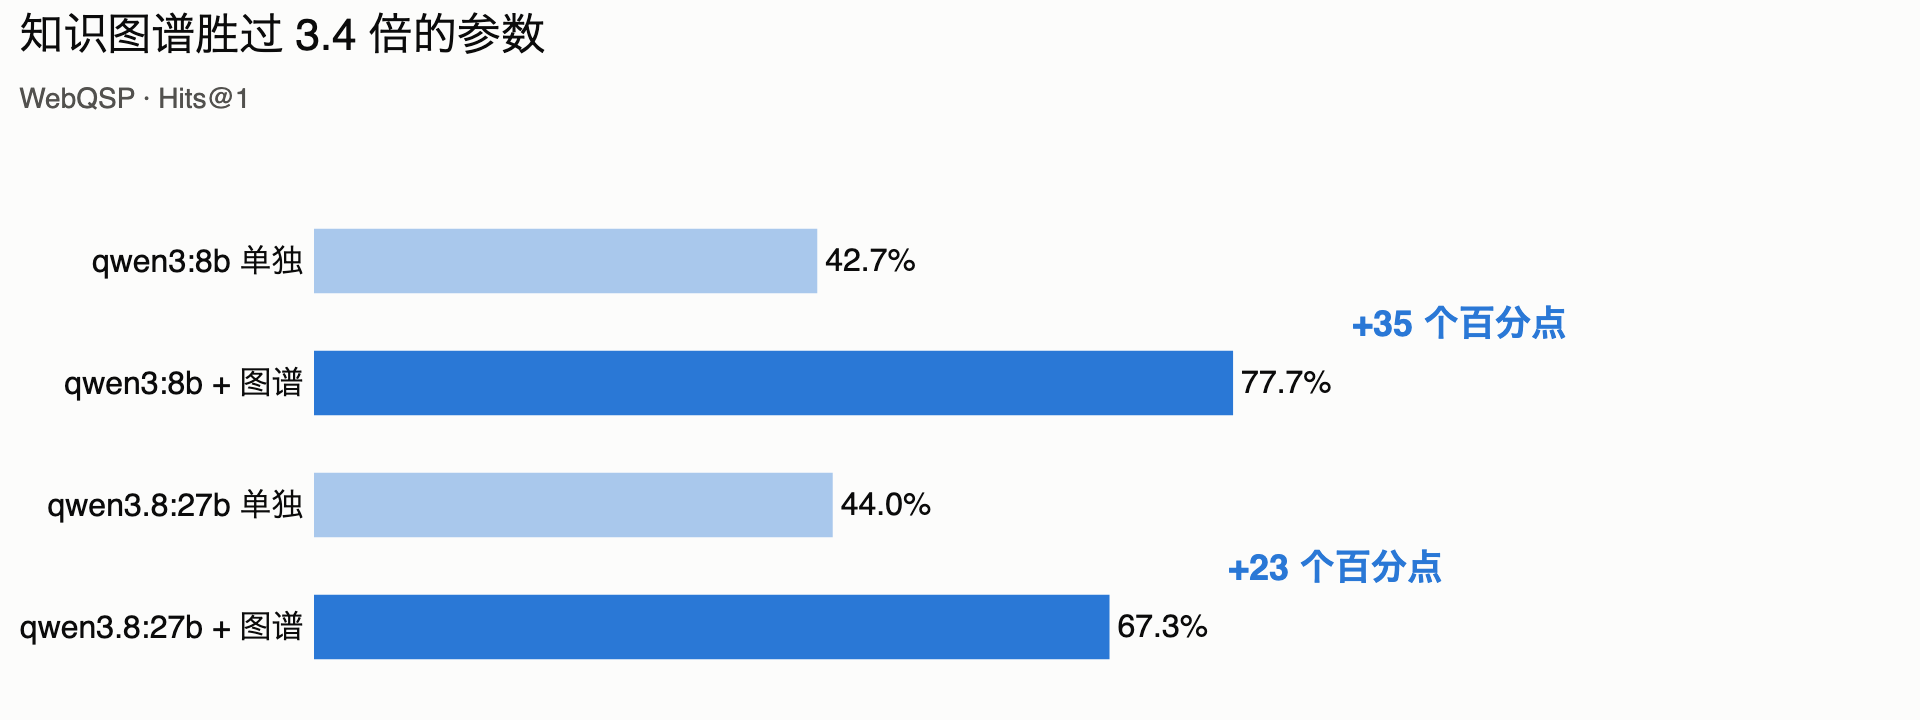
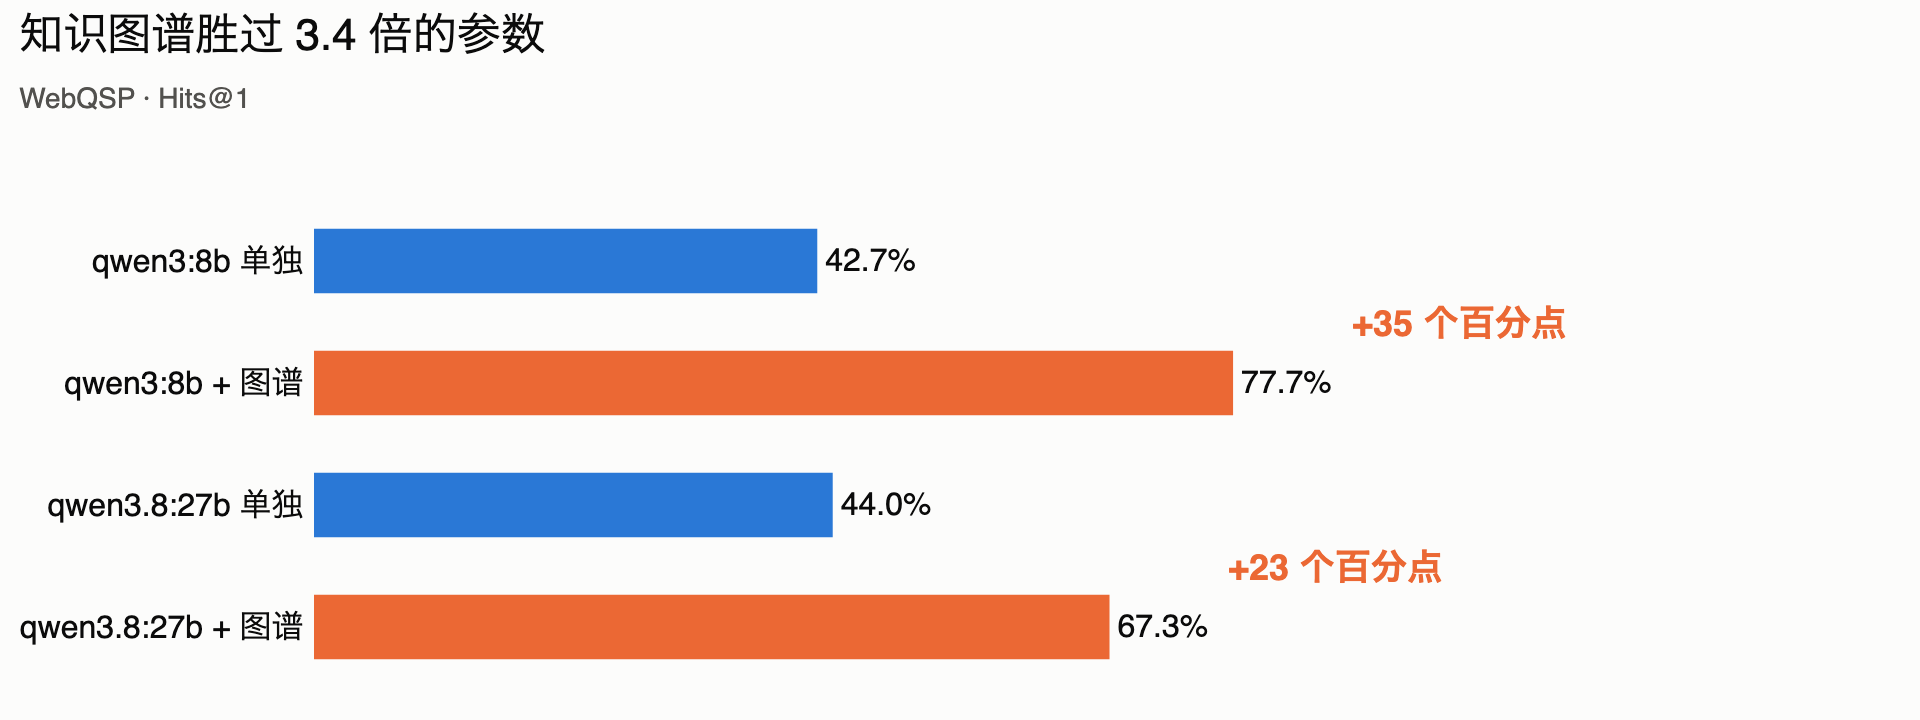
benchmarks: 精度の図を青とオレンジに。同系色では差が見えなかった
グラフありを濃い青、なしを淡い青にしていたが、明度差だけだと「同じものの
多い少ない」に見えて、どちらがどちらか棒を測らないと分からなかった。

  青      グラフなし
  オレンジ  グラフあり（常に長い方）

差の注記もオレンジに揃えた。この2色は既に検証済みのペアで、この背景で
CVD ΔE 24.7（protan）、通常視 33.6、どちらも背景比3:1以上。

この図はこの2色を「条件」に使っている（他の図では指標や系列に使っている）。
指標が1つしかない図なので色相が空いており、比較したい軸に割り当てられる。
3言語すべて再生成した。

diff --git a/benchmarks/accuracy_chart.py b/benchmarks/accuracy_chart.py
@@ -26,11 +26,16 @@ SURFACE = "#fcfcfb"
 INK = "#0b0b0b"
 INK_MUTED = "#52514e"
 
-#: One measure, so one hue — the blue Hits@1 wears in every figure here. The
-#: pale tint is the same hue lightened, not a second colour: rows without a
-#: graph are the baseline, and the eye should land on the rows with one.
-WITH_GRAPH = "#2a78d6"
-WITHOUT_GRAPH = "#a9c8ec"
+#: Two hues, because the two conditions are what this figure compares — a light
+#: and a dark tint of one hue read as "more of the same thing" and the eye has
+#: to measure the bars to see which is which. Blue is the baseline, orange is
+#: with a graph, and orange is always the taller bar.
+#:
+#: Validated on this surface: CVD dE 24.7 (protan), normal-vision dE 33.6, both
+#: above 3:1 against the surface. Note these two carry *condition* here, not a
+#: metric — this figure plots one metric, so the hue is free for something else.
+WITHOUT_GRAPH = "#2a78d6"
+WITH_GRAPH = "#eb6834"
 
 #: filename -> (label, has a graph). Bottom to top, paired by model so each
 #: model's before/after sits adjacent — interleaving the conditions put the two
